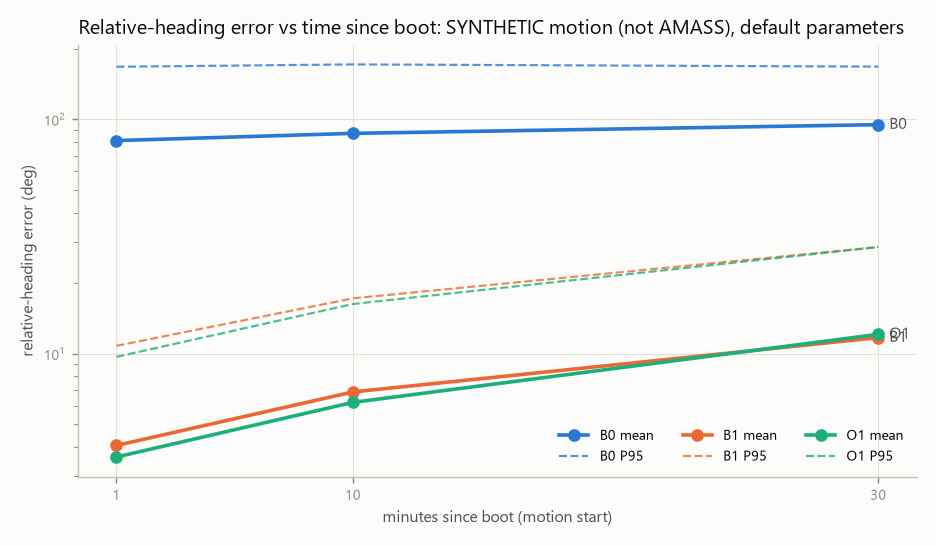
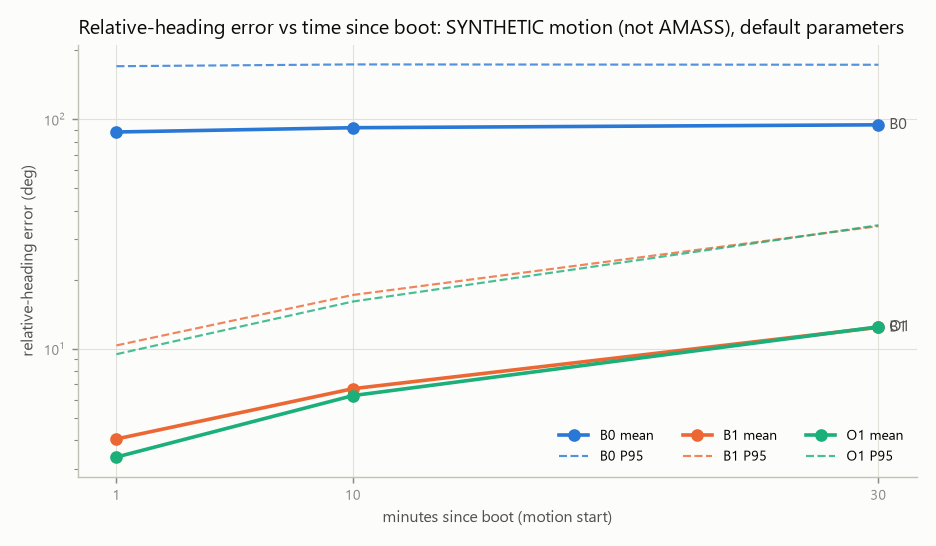
WORKLOG: the missing M5 entry; commit the regenerated Step 1 results
The M5 session left docs/RESULTS_STEP1.md and its figures regenerated at
441be49 but uncommitted, and never re-ran the full check after adding
checks 9.1-9.3. Full check on the same code: ruff clean; pytest 125
passed, 9 skipped; validation 32 passed, 0 failed, 5 skipped of 37.

diff --git a/docs/RESULTS_STEP1.md b/docs/RESULTS_STEP1.md
@@ -8,7 +8,7 @@
 
 *Generated by `python scripts/make_results.py` (`--source synthetic --seed 1`). Do not edit by hand.*
 
-**Run:** 2026-10-23 07:37 UTC; commit `5f494f4b1b50`; config hash `b083b87e8724`; seed 1; default run folder `run_g5f494f4-dirty_cb083b87e_s1`.
+**Run:** 2026-10-23 07:52 UTC; commit `441be49ed5cb`; config hash `b083b87e8724`; seed 1; default run folder `run_g441be49_cb083b87e_s1`.
 
 ## Picture first
 
@@ -44,38 +44,38 @@ Default configuration ([configs/default.yaml](../configs/default.yaml)); all 40+
 | `dataset.window_s` | 20.0 | assumption |
 | `dataset.motion_start_min` | [1, 10, 30] | assumption |
 
-**Data:** 18 sessions from 3 source sequences (synthetic), splits train 2, val 1 (sequences). Baselines have no fitted parameters, so every split is scored; nothing is trained in Step 1. Errors are over the motion phase, all 14 joints, every 32 Hz step. Steps within a session are strongly correlated, so the independent unit is the **session** (column `sessions`): differences between baselines smaller than a few tenths of a degree are within sampling noise.
+**Data:** 72 sessions from 12 source sequences (synthetic), splits test 2, train 8, val 2 (sequences). Baselines have no fitted parameters, so every split is scored; nothing is trained in Step 1. Errors are over the motion phase, all 14 joints, every 32 Hz step. Steps within a session are strongly correlated, so the independent unit is the **session** (column `sessions`): differences between baselines smaller than a few tenths of a degree are within sampling noise.
 
 ## Table 1: primary metric, relative-heading error |wrap(δ̂ − δ)| (degrees)
 
 | baseline | min since boot | mean | median | p95 | sessions | steps |
 |---|---|---|---|---|---|---|
-| B0 | 1 | 81.24 | 77.53 | 167.84 | 6 | 3846 |
-| B0 | 10 | 87.23 | 80.06 | 171.73 | 6 | 3846 |
-| B0 | 30 | 95.02 | 98.88 | 168.04 | 6 | 3846 |
-| B1 | 1 | 4.06 | 3.00 | 10.81 | 6 | 3846 |
-| B1 | 10 | 6.87 | 5.20 | 17.24 | 6 | 3846 |
-| B1 | 30 | 11.72 | 9.48 | 28.53 | 6 | 3846 |
-| O1 | 1 | 3.62 | 2.76 | 9.70 | 6 | 3846 |
-| O1 | 10 | 6.20 | 4.10 | 16.30 | 6 | 3846 |
-| O1 | 30 | 12.10 | 10.70 | 28.54 | 6 | 3846 |
-| O2 | 1 | 0.00 | 0.00 | 0.00 | 6 | 3846 |
-| O2 | 10 | 0.00 | 0.00 | 0.00 | 6 | 3846 |
-| O2 | 30 | 0.00 | 0.00 | 0.00 | 6 | 3846 |
+| B0 | 1 | 88.10 | 84.08 | 170.51 | 24 | 15384 |
+| B0 | 10 | 91.96 | 94.15 | 173.58 | 24 | 15384 |
+| B0 | 30 | 94.68 | 96.03 | 172.99 | 24 | 15384 |
+| B1 | 1 | 4.04 | 3.14 | 10.34 | 24 | 15384 |
+| B1 | 10 | 6.70 | 5.25 | 17.16 | 24 | 15384 |
+| B1 | 30 | 12.40 | 9.78 | 34.25 | 24 | 15384 |
+| O1 | 1 | 3.37 | 2.68 | 9.47 | 24 | 15384 |
+| O1 | 10 | 6.25 | 5.02 | 16.07 | 24 | 15384 |
+| O1 | 30 | 12.46 | 10.10 | 34.55 | 24 | 15384 |
+| O2 | 1 | 0.00 | 0.00 | 0.00 | 24 | 15384 |
+| O2 | 10 | 0.00 | 0.00 | 0.00 | 24 | 15384 |
+| O2 | 30 | 0.00 | 0.00 | 0.00 | 24 | 15384 |
 
 ## Table 2: by joint type (mean / P95, degrees)
 
 | joint_type | baseline | 1 min | 10 min | 30 min |
 |---|---|---|---|---|
-| 2dof | B0 | 72.41 / 156.63 | 93.54 / 169.86 | 97.00 / 167.95 |
-| 2dof | B1 | 4.47 / 11.95 | 7.06 / 17.57 | 13.00 / 36.75 |
-| 2dof | O1 | 3.49 / 9.33 | 5.94 / 15.89 | 12.53 / 35.55 |
-| 3dof | B0 | 91.18 / 174.92 | 80.32 / 176.40 | 90.01 / 166.80 |
-| 3dof | B1 | 4.20 / 9.63 | 6.04 / 17.15 | 11.18 / 27.34 |
-| 3dof | O1 | 4.22 / 11.70 | 5.66 / 16.31 | 11.97 / 26.23 |
-| hinge | B0 | 77.92 / 164.75 | 89.02 / 173.21 | 104.09 / 175.38 |
-| hinge | B1 | 2.41 / 6.72 | 8.78 / 19.46 | 9.51 / 28.24 |
-| hinge | O1 | 2.22 / 5.55 | 8.61 / 16.24 | 11.25 / 28.77 |
+| 2dof | B0 | 80.65 / 167.41 | 97.34 / 176.26 | 97.09 / 170.71 |
+| 2dof | B1 | 4.12 / 10.55 | 6.74 / 15.97 | 14.24 / 39.83 |
+| 2dof | O1 | 3.27 / 8.79 | 6.41 / 17.03 | 13.78 / 36.95 |
+| 3dof | B0 | 90.60 / 170.89 | 88.55 / 172.89 | 92.70 / 169.61 |
+| 3dof | B1 | 4.20 / 9.86 | 6.62 / 17.44 | 9.86 / 25.56 |
+| 3dof | O1 | 3.59 / 9.80 | 6.11 / 16.30 | 10.42 / 26.46 |
+| hinge | B0 | 102.93 / 173.30 | 86.06 / 168.62 | 93.38 / 175.95 |
+| hinge | B1 | 3.36 / 8.46 | 6.81 / 16.58 | 14.51 / 39.51 |
+| hinge | O1 | 3.06 / 8.65 | 6.18 / 14.79 | 14.64 / 41.79 |
 
 O2 is 0 everywhere by construction (check 12.1).
 
@@ -85,24 +85,58 @@ Includes fusion tilt error and quantisation, so even O2 is not zero here.
 
 | baseline | min since boot | mean | median | p95 | sessions | steps |
 |---|---|---|---|---|---|---|
-| B0 | 1 | 81.29 | 77.19 | 168.27 | 6 | 3846 |
-| B0 | 10 | 87.24 | 79.98 | 171.90 | 6 | 3846 |
-| B0 | 30 | 94.99 | 98.79 | 168.56 | 6 | 3846 |
-| B1 | 1 | 4.37 | 3.37 | 10.58 | 6 | 3846 |
-| B1 | 10 | 7.00 | 5.37 | 17.59 | 6 | 3846 |
-| B1 | 30 | 11.77 | 9.88 | 28.27 | 6 | 3846 |
-| O1 | 1 | 3.93 | 3.00 | 9.95 | 6 | 3846 |
-| O1 | 10 | 6.38 | 4.48 | 16.06 | 6 | 3846 |
-| O1 | 30 | 12.15 | 10.78 | 28.43 | 6 | 3846 |
-| O2 | 1 | 1.14 | 1.10 | 1.98 | 6 | 3846 |
-| O2 | 10 | 1.12 | 1.07 | 2.00 | 6 | 3846 |
-| O2 | 30 | 1.12 | 1.07 | 1.92 | 6 | 3846 |
+| B0 | 1 | 88.10 | 84.00 | 170.20 | 24 | 15384 |
+| B0 | 10 | 91.97 | 94.14 | 174.07 | 24 | 15384 |
+| B0 | 30 | 94.68 | 96.37 | 172.61 | 24 | 15384 |
+| B1 | 1 | 4.32 | 3.45 | 10.45 | 24 | 15384 |
+| B1 | 10 | 6.84 | 5.45 | 17.26 | 24 | 15384 |
+| B1 | 30 | 12.49 | 9.95 | 34.61 | 24 | 15384 |
+| O1 | 1 | 3.67 | 2.86 | 9.47 | 24 | 15384 |
+| O1 | 10 | 6.42 | 5.08 | 16.16 | 24 | 15384 |
+| O1 | 30 | 12.55 | 10.17 | 34.55 | 24 | 15384 |
+| O2 | 1 | 1.13 | 1.09 | 1.97 | 24 | 15384 |
+| O2 | 10 | 1.14 | 1.09 | 2.01 | 24 | 15384 |
+| O2 | 30 | 1.13 | 1.08 | 1.96 | 24 | 15384 |
+
+## Table 4: one-at-a-time sweeps (mean / P95 of the primary metric, degrees)
+
+Motion at 10 min since boot, one window per sequence. Every other parameter at its default; the same
+session seeds for every value. Run folders: `run_g441be49_cecb245a7_s1`, `run_g441be49_cbf35e7a1_s1`, `run_g441be49_c96d6860e_s1`, ….
+
+| parameter | value | B0 | B1 | O1 |
+|---|---|---|---|---|
+| error_model.offset_mode | aligned | 6.60 / 16.61 | 6.55 / 16.74 | 6.41 / 16.31 |
+| error_model.offset_mode | arbitrary | 89.52 / 170.17 | 6.99 / 17.53 | 6.43 / 16.31 |
+| error_model.box_slot_deg | 0.50 | 89.52 / 170.16 | 6.43 / 16.31 | 6.43 / 16.32 |
+| error_model.box_slot_deg | 2.00 | 89.52 / 170.17 | 6.99 / 17.53 | 6.43 / 16.31 |
+| error_model.box_slot_deg | 5.00 | 89.52 / 170.20 | 8.70 / 21.89 | 6.43 / 16.31 |
+| error_model.drift_sigma_deg_per_min | 0.05 | 89.46 / 171.58 | 6.51 / 15.76 | 6.11 / 15.26 |
+| error_model.drift_sigma_deg_per_min | 0.20 | 89.52 / 170.17 | 6.99 / 17.53 | 6.43 / 16.31 |
+| error_model.drift_sigma_deg_per_min | 1.00 | 89.34 / 170.68 | 13.08 / 31.10 | 12.60 / 31.58 |
+| error_model.scale_factor_max | 0.01 | 89.52 / 170.17 | 6.99 / 17.53 | 6.43 / 16.31 |
+| error_model.scale_factor_max | 0.03 | 90.47 / 172.55 | 12.56 / 32.05 | 12.30 / 31.10 |
+| error_model.reboot_rate_per_h | 1.00 | 87.49 / 173.23 | 29.89 / 144.84 | 5.74 / 15.56 |
+| error_model.reboot_rate_per_h | 0.00 | 89.52 / 170.17 | 6.99 / 17.53 | 6.43 / 16.31 |
+| timing.stall_ms | 0.00 | 89.52 / 170.17 | 6.99 / 17.53 | 6.43 / 16.31 |
+| timing.stall_ms | 50.00 | 89.52 / 170.17 | 6.99 / 17.52 | 6.43 / 16.31 |
+| timing.stall_ms | 100.00 | 89.52 / 170.17 | 6.99 / 17.53 | 6.43 / 16.31 |
+| timing.stall_ms | 200.00 | 89.52 / 170.17 | 6.99 / 17.54 | 6.43 / 16.31 |
+| radio.loss_mean | 0.05 | 89.52 / 170.17 | 6.99 / 17.53 | 6.43 / 16.31 |
+| radio.loss_mean | 0.01 | 89.52 / 170.17 | 6.99 / 17.53 | 6.43 / 16.31 |
+| radio.loss_mean | 0.02 | 89.52 / 170.17 | 6.99 / 17.53 | 6.43 / 16.31 |
+| radio.burst_mean_frames | 1.00 | 89.52 / 170.17 | 6.99 / 17.54 | 6.43 / 16.31 |
+| radio.burst_mean_frames | 3.00 | 89.52 / 170.17 | 6.99 / 17.53 | 6.43 / 16.31 |
+| radio.burst_mean_frames | 10.00 | 89.52 / 170.17 | 6.99 / 17.52 | 6.43 / 16.31 |
 
 ## Figures
 
 ![error growth](figures/results_growth.png)
 
 *Mean (solid) and P95 (dashed) relative-heading error of B0, B1 and O1 against minutes since boot. Log scale; O2 is 0.*
+
+![sweeps](figures/results_sweeps.png)
+
+*Mean error of B1 and O1 for each value of each swept parameter.*
 
 ## How to read these numbers
 

diff --git a/docs/VALIDATION.md b/docs/VALIDATION.md
@@ -3,9 +3,9 @@
 *Generated by `python scripts/validate.py` (run by `bash scripts/check_all.sh`). Do not edit by hand;*
 *the text of each check lives in `mesqsim/validation.py`.*
 
-**Latest run:** 2026-10-23 06:15 UTC, commit `e6444609603f` (the code that was checked; `+dirty` means uncommitted changes).
+**Latest run:** 2026-11-14 01:52 UTC, commit `af0b0cdccab6+dirty` (the code that was checked; `+dirty` means uncommitted changes).
 
-**Summary:** 30 passed, 0 failed, 4 skipped, of 34 checks.
+**Summary:** 32 passed, 0 failed, 5 skipped, of 37 checks.
 
 | # | check | expected | latest result | status |
 |---|---|---|---|---|
@@ -20,7 +20,7 @@
 | 2.5 | Composition order pinned | +y -> +z (and -x for the swapped order) | Rz90·Rx90·y = [0.0, -0.0, 1.0], Rx90·Rz90·y = [-1.0, -0.0, 0.0] | pass |
 | 3.1 | The §4.4 worked example | δ = -7°, residual 0° with the right sign, 14° with the wrong sign | δ = -7.000000°, right sign 4.79e-15°, wrong sign 14.000000° | pass |
 | 4.1 | A correction never changes tilt | max change < 1e-12 | max change 1.1e-15 | pass |
-| 4.2 | Turning every pod's north by one Y(β) changes nothing observable | labels: max change < 1e-9°; B1: max change ≤ 0.5° | labels max change 1.5e-13°; B1 max change 0.0038° | pass |
+| 4.2 | Turning every pod's north by one Y(β) changes nothing observable | labels: max change < 1e-9°; B1: max change ≤ 0.5° | labels max change 1.5e-13°; B1 max change 0.0039° | pass |
 | 4.3 | Turning one pod's north by Y(γ) moves only its joints, by exactly ±γ | l_hip +23°, l_knee −23°, every other joint 0 (to 1e-9°); other pods' frames identical | l_hip +23.000000°, l_knee -23.000000°, others 0; other pods' frames identical: True | pass |
 | 5.1 | Zero corruption: B0 = 0 up to quantisation, O2 = 0 | heading error 0 for both; B0 orientation error ≤ 0.01° (P99) and < 0.02° (max) | heading max 0.0e+00°; B0 orientation P99 0.0082°, max 0.0098° | pass |
 | 5.2 | Offsets only: B0 equals the offset differences, O2 = 0 | |B0 − |a_c − a_p|| < 0.02° at every step; O2 heading error exactly 0 | max |B0 − offset difference| 0.0081° (offset differences up to 179.5°); O2 heading max 0.0e+00° | pass |
@@ -34,6 +34,9 @@
 | 7.4 | Step 0's fresh, held and lost flags equal the truth | same set of (pod, epoch, tick); 0 flag mismatches; reboot epochs found | default: 31999 ticks (fresh 31381, held 0, lost 618), 0 reboots, 0 unmatched, 0 mismatches; stress: 31999 ticks (fresh 29716, held 789, lost 1494), 3 reboots, 0 unmatched, 0 mismatches | pass |
 | 7.5 | Loss rate and burst length match the loss model | loss fraction and mean burst within 5 % of the parameters | (0.005, 1): rate 0.00503, burst 1.000; (0.02, 3): rate 0.01989, burst 2.967; (0.05, 10): rate 0.05084, burst 10.011 | pass |
 | 8.1 | Same config and seed: identical bytes; another seed differs | seed 7 twice: identical SHA-256 for every file; seed 8: different frames | 5 files; seed 7 twice identical: True; seed 8 differs: True | pass |
+| 9.1 | Splits by subject; TotalCapture held out; deterministic | no subject in two splits; CMU 14/3/3; every TotalCapture sequence in 'holdout'; identical output after shuffling | CMU {'test': 3, 'train': 14, 'val': 3}; TotalCapture ['holdout']; problems none; shuffle-invariant True | pass |
+| 9.2 | The AMASS split manifest: no subject in two splits, hash unchanged | no problems; SHA-256 equal to the frozen value | no split manifest yet (needs AMASS: python -m mesqsim split --write) | skipped (data absent) |
+| 9.3 | Every window and variant of a sequence stays in its split | each source sequence has exactly one split; every session seed distinct | 24 sessions from 6 sequences; splits per sequence [1]; distinct seeds 24 | pass |
 | 10.1 | Rest pose: every segment equals the facing | max angle between any segment and R_0 < 1e-9° | max angle 2.4e-14° over 20 facings | pass |
 | 10.2 | One AMASS sequence gives 15 unit orientations | shape (N, 15, 4), all finite, |q| = 1 | AMASS not downloaded (docs/DATA.md) | skipped (data absent) |
 | 10.3 | AMASS world is +Z up | closest world axis +Z, mean cosine > 0.8 | AMASS not downloaded (docs/DATA.md) | skipped (data absent) |
@@ -42,7 +45,7 @@
 | 11.1 | DIODEM files match the manifest | 267 of 267 files ok | 267 of 267 files ok | pass |
 | 11.2 | DIODEM rate 40 Hz, quaternion norms 1 | IMU 40 Hz everywhere; max | |q| - 1 | < 1e-6 | IMU rates [40.0] Hz; optical rates [30.0, 120.0] Hz; max | |q| - 1 | 4.4e-16 over 1199524 quaternions | pass |
 | 11.3 | Six-axis relative heading drifts, optical stays bounded | |VQF − optical| at the end > 2 × its P95 over the first 5 s; optical relative heading spans < 180° | VQF − optical: end -80.3°, max |.| 91.4°, P95 first 5 s 1.84°; optical span 17.3° | pass |
-| 12.1 | Baseline order: O2 = 0 ≤ O1 ≤ B1, and B0 ≫ B1 in the arbitrary mode | O2 = 0 ≤ O1 ≤ B1; B0 > 5 × B1 | O2 0.000°, O1 6.485°, B1 6.898°, B0 93.879° | pass |
+| 12.1 | Baseline order: O2 = 0 ≤ O1 ≤ B1, and B0 ≫ B1 in the arbitrary mode | O2 = 0 ≤ O1 ≤ B1; B0 > 5 × B1 | O2 0.000°, O1 6.485°, B1 6.900°, B0 93.879° | pass |
 
 ## What each check does and why
 
@@ -221,6 +224,27 @@
 - **Expected:** seed 7 twice: identical SHA-256 for every file; seed 8: different frames
 - **Command:** `pytest tests/test_sim_slice.py -k same_seed`
 
+### 9.1 Splits by subject; TotalCapture held out; deterministic
+
+- **What:** Split a synthetic AMASS-like file list (CMU 20 subjects, KIT 3, SFU 1, TotalCapture 5; 2 sequences each), shuffle the rows and split again.
+- **Why:** Leakage between splits would make every later comparison optimistic (brief §5.1).
+- **Expected:** no subject in two splits; CMU 14/3/3; every TotalCapture sequence in 'holdout'; identical output after shuffling
+- **Command:** `pytest tests/test_splits.py`
+
+### 9.2 The AMASS split manifest: no subject in two splits, hash unchanged
+
+- **What:** Read manifests/split_manifest.csv; check it; compare its SHA-256 with the frozen manifests/split_manifest.sha256.
+- **Why:** After Danyal freezes the split, any change to it must be deliberate and visible.
+- **Expected:** no problems; SHA-256 equal to the frozen value
+- **Command:** `python -m mesqsim split`
+
+### 9.3 Every window and variant of a sequence stays in its split
+
+- **What:** Generate a small dataset (synthetic sources, 2 windows, 2 variants per window) and read its dataset.csv.
+- **Why:** Windows of one sequence are near-duplicates; if they straddled splits, test data would leak into training.
+- **Expected:** each source sequence has exactly one split; every session seed distinct
+- **Command:** `pytest tests/test_splits.py -k variant`
+
 ### 10.1 Rest pose: every segment equals the facing
 
 - **What:** Zero every local rotation, give the root an upright pose with a random facing, run the forward kinematics and the mapping.
@@ -289,6 +313,10 @@
 ![The same mapping on a synthetic walk (used until AMASS is downloaded): subject's left in blue, right in orange, +Z up.](figures/stick_figure_synthetic.png)
 
 *The same mapping on a synthetic walk (used until AMASS is downloaded): subject's left in blue, right in orange, +Z up.*
+
+![Simulator, random walk only: spread of ψ for one pod and for parent-child pairs against the datasheet scaling N_g·√t (checks 6.1); error bars are ±1 standard error of the spread.](figures/sim_random_walk.png)
+
+*Simulator, random walk only: spread of ψ for one pod and for parent-child pairs against the datasheet scaling N_g·√t (checks 6.1); error bars are ±1 standard error of the spread.*
 
 ![DIODEM arm exp01, hinge seg2 → seg3: six-axis VQF relative heading against optical truth (check 11.3). No claims are drawn from it in Step 1.](figures/diodem_relative_heading.png)
 

diff --git a/WORKLOG.md b/WORKLOG.md
@@ -303,3 +303,64 @@ cross-axis sensitivity, and radio loss correlated across pods.
 
 **Open questions.** The same as M3 (offset mode; AMASS download), and every `assumption` row awaits Danyal's bench
 measurements: `python -m mesqsim params --label assumption` lists all 34.
+
+## 2026-10-23 · M5 · branch `m5-results` (stacked on `m4-simulator`); entry written on 2026-11-13 in S2-M0
+
+*The M5 session ended without a work-log entry. This entry was written afterwards from the M5 commits, their
+messages and diffs, and a fresh run of the full check on the same code. Numbers quoted from a commit message are
+marked as such; they were not re-run.*
+
+**Previous entry's commits.** `e4b4667`, `67c5ac4`, `e644460` (M4 code), `3a88b80` (M4 validation and work log),
+`f826716` (work-log fix), on `m4-simulator`.
+
+**M5 commits.** `5f494f4` (speed-up), `a53c510` (M5), `441be49` (label epochs), on `m5-results`. GitHub's
+`m5-results` holds `a53c510`; `441be49` was local only. The regenerated `docs/RESULTS_STEP1.md` and its two
+figures were left staged but uncommitted; they are committed with this entry.
+
+**Files added.** `mesqsim/{splits,dataset,results}.py`, `scripts/make_results.py`, `tests/test_splits.py`,
+`docs/RESULTS_STEP1.md`, `docs/figures/{results_growth,results_sweeps,sim_random_walk}.png`.
+**Changed.** `mesqsim/{cli,figures,paths,pipeline,step0,validation}.py`, `mesqsim/sim/{motion,simulate}.py`,
+`configs/default.yaml` (`dataset:` section), `scripts/{make_figures,validate}.py`, `tests/test_sim_full.py`,
+`docs/{CODE,DATA,MATH,PIPELINE,SIMULATOR}.md`, `README.md`.
+
+**What was built.**
+- Splits ([mesqsim/splits.py](mesqsim/splits.py)): subjects → 70/15/15 % per subset by a stable SHA-256 order and
+  largest remainder; TotalCapture to `holdout`; `python -m mesqsim split --write` writes the manifest and its
+  SHA-256 and refuses to replace a frozen one without `--force`. Checks 9.1–9.3.
+- Dataset generation ([mesqsim/dataset.py](mesqsim/dataset.py), `python -m mesqsim dataset`): windows of 20 s
+  (at most 3 per sequence) × motion start 1, 10, 30 min since boot × variants, stable per-session seeds, every
+  session in its sequence's split. Synthetic stand-in sources until AMASS.
+- Results ([mesqsim/results.py](mesqsim/results.py), [scripts/make_results.py](scripts/make_results.py)): the
+  default dataset plus one-at-a-time sweeps with common random numbers → Tables 1–4 and two figures in
+  `docs/RESULTS_STEP1.md`, labelled provisional while the motion is synthetic.
+- Speed-up (`5f494f4`, from its message): Step 0's unwrapping and lost-tick insertion are vectorised per boot epoch
+  (0.55 s → 0.07 s per session); η is generated on each epoch's chip grid with one linear filter. One session
+  (30-minute idle, 20 s motion) takes 0.54 s to simulate, decode and score, down from about 1.5 s.
+- Label epochs (`441be49`, from its message): a pod that rebooted twice inside the unrecorded idle showed Step 0 one
+  count jump, while the labels counted two, so the reboot sweep crashed. Labels' `epoch` is now the observed boot
+  epoch and `boot_epoch` the true index. Regression test
+  `test_two_reboots_in_the_unrecorded_idle_look_like_one`; 30 stress sessions with 834 reboots gave 0 unmatched
+  ticks and 0 flag mismatches.
+
+**Commands and results.**
+- `python scripts/make_results.py` (`--source synthetic --seed 1`) at `441be49`, 2026-10-23 07:52 UTC (the run line
+  of `docs/RESULTS_STEP1.md`; not re-run in this session): 72 sessions from 12 synthetic sequences; primary error at
+  10 min since boot, mean / P95: B0 91.96° / 173.58°, B1 6.70° / 17.16°, O1 6.25° / 16.07°, O2 0 / 0. Provisional.
+- `bash scripts/check_all.sh` on 2026-11-14 01:52 UTC (2026-11-13 18:52 local), commit `af0b0cd` + the staged
+  results files (code identical to `441be49`), 5 min 19 s:
+  - ruff: all checks passed;
+  - pytest: **125 passed, 9 skipped** (185 s; the 9 skips need AMASS);
+  - validation: **32 passed, 0 failed, 5 skipped, of 37 checks** (9.2 and 10.2–10.5 need AMASS). The committed
+    `docs/VALIDATION.md` still showed the M4 run (30 of 34), so M5 had not re-run the full check after adding 9.1–9.3.
+  - Changes against M4: 4.2 B1 max change 0.0039° (was 0.0038°) and 12.1 B1 6.900° (was 6.898°), from the new η
+    generation in `5f494f4`.
+
+**Decisions** (read from the M5 code and docs).
+- The split order is SHA-256 of `mesquite-step1-splits-v1:<subset>:<subject>`, so shuffling the file list or adding
+  a subset moves no existing subject (tested).
+- Sweeps vary one parameter at a time at 10 min since boot, with the same session seeds for every value.
+- `dataset.window_s` 20 s, `windows_per_sequence` 3 and `motion_start_min` [1, 10, 30] are `assumption`
+  (experiment design).
+
+**Open questions** (at the end of M5). AMASS and SMPL+H not downloaded, so no split manifest and provisional results;
+M6 not started; no `main` on GitHub and no pull request.
